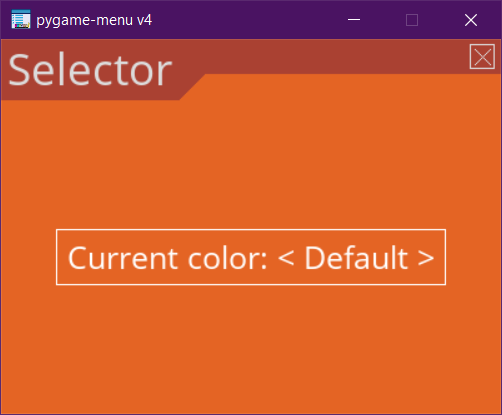
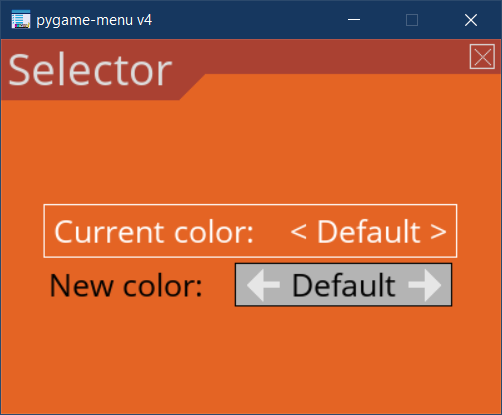
Update selector and color docs

Changed region(s): [[0.0598, 0.4916, 0.9263, 0.7518], [0.0, 0.0, 1.0, 1.0]]

diff --git a/docs/add_widgets.py b/docs/add_widgets.py
@@ -47,7 +47,7 @@ icon = pygame_menu.BaseImage(pygame_menu.baseimage.IMAGE_EXAMPLE_PYGAME_MENU).ge
 pygame.display.set_icon(icon)
 
 # Set example, only this should change
-EXAMPLE = 'FRAME'
+EXAMPLE = 'SELECTOR'
 
 # Create example
 menu: 'pygame_menu.Menu'
@@ -129,22 +129,31 @@ elif EXAMPLE == 'LABEL':
 
 elif EXAMPLE == 'COLORINPUT':
     menu = make_menu(pygame_menu.themes.THEME_DARK, 'Color Entry')
-    menu.add.color_input('RGB color 1: ', color_type='rgb', default=(255, 0, 255), font_size=18)
-    menu.add.color_input('RGB color 2: ', color_type='rgb', input_separator='-', font_size=18)
-    menu.add.color_input('HEX color 3: ', color_type='hex', default='#ffaa11', font_size=18)
+    menu.add.color_input('RGB color 1: ', color_type=pygame_menu.widgets.COLORINPUT_TYPE_RGB,
+                         default=(255, 0, 255), font_size=18)
+    menu.add.color_input('RGB color 2: ', color_type=pygame_menu.widgets.COLORINPUT_TYPE_RGB,
+                         input_separator='-', font_size=18)
+    menu.add.color_input('HEX color 3: ', color_type=pygame_menu.widgets.COLORINPUT_TYPE_HEX,
+                         default='#ffaa11', font_size=18)
 
 elif EXAMPLE == 'SELECTOR':
     menu = make_menu(pygame_menu.themes.THEME_ORANGE, 'Selector')
+    items = [('Default', (255, 255, 255)),
+             ('Black', (0, 0, 0)),
+             ('Blue', (0, 0, 255)),
+             ('Random', (-1, -1, -1))]
     selector = menu.add.selector(
-        title='Current color: ',
-        items=[('Default', (255, 255, 255)),
-               ('Black', (0, 0, 0)),
-               ('Blue', (0, 0, 255)),
-               ('Random', (-1, -1, -1))],
+        title='Current color:\t',
+        items=items,
         onreturn=change_background_color,  # user press "Return" button
         onchange=change_background_color  # User changes value with left/right keys
     )
     selector.add_self_to_kwargs()  # callbacks will receive widget as parameter
+    selector2 = menu.add.selector(
+        title='New color:',
+        items=items,
+        style=pygame_menu.widgets.SELECTOR_STYLE_FANCY
+    )
 
 elif EXAMPLE == 'BUTTON':
     menu = make_menu(pygame_menu.themes.THEME_DEFAULT, 'Button')

diff --git a/docs/_source/add_widgets.rst b/docs/_source/add_widgets.rst
@@ -83,16 +83,22 @@ displayed, the others are the arguments passed to the callbacks
 
     menu = pygame_menu.Menu(...)
 
-    selector = menu.add.selector(
-        title='Current color: ',
-        items=[('Default', (255, 255, 255)),
+    items = [('Default', (255, 255, 255)),
                ('Black', (0, 0, 0)),
                ('Blue', (0, 0, 255)),
-               ('Random', (-1, -1, -1))],
+               ('Random', (-1, -1, -1))]
+    selector = menu.add.selector(
+        title='Current color: ',
+        items=,
         onreturn=change_background_color,  # user press "Return" button
         onchange=change_background_color  # User changes value with left/right keys
     )
     selector.add_self_to_kwargs()  # callbacks will receive widget as parameter
+    selector2 = menu.add.selector(
+        title='New color:',
+        items=items,
+        style=pygame_menu.widgets.SELECTOR_STYLE_FANCY
+    )
 
 .. automethod:: pygame_menu._widgetmanager.WidgetManager.selector
 
@@ -118,12 +124,12 @@ is a comma (``,``).
 
     menu = pygame_menu.Menu(...)
 
-    menu.add.color_input('RGB color 1: ', color_type='rgb',
-        default=(255, 0, 255), onreturn=check_color, font_size=18)
-    menu.add.color_input('RGB color 2: ', color_type='rgb',
-        input_separator='-', font_size=18)
-    menu.add.color_input('HEX color 3: ', color_type='hex',
-        default='#ffaa11', font_size=18)
+    menu.add.color_input('RGB color 1: ', color_type=pygame_menu.widgets.COLORINPUT_TYPE_RGB,
+                         default=(255, 0, 255), font_size=18)
+    menu.add.color_input('RGB color 2: ', color_type=pygame_menu.widgets.COLORINPUT_TYPE_RGB,
+                         input_separator='-', font_size=18)
+    menu.add.color_input('HEX color 3: ', color_type=pygame_menu.widgets.COLORINPUT_TYPE_HEX,
+                         default='#ffaa11', font_size=18)
 
 .. automethod:: pygame_menu._widgetmanager.WidgetManager.color_input
 

diff --git a/docs/_source/migration_guide_3_to_4.rst b/docs/_source/migration_guide_3_to_4.rst
@@ -24,6 +24,7 @@ Migration Guide - v3 to v4
 - Renamed ``touchscreen_enabled`` to ``touchscreen`` in ``Menu`` constructor.
 - Renamed ``Widget`` method from ``set_selected(selected=True)`` to ``select(status=True, update_menu=False)``.
 - Renamed Selector ``elements`` to ``items``.
+- Renamed Selector ``update_elements`` to ``update_items``.
 - Renamed Theme ``menubar_close_button`` to ``title_close_button``.
 - Renamed Theme ``title_shadow_color`` to ``title_font_shadow_color``.
 - Renamed Theme ``title_shadow_offset`` to ``title_font_shadow_offset``.
